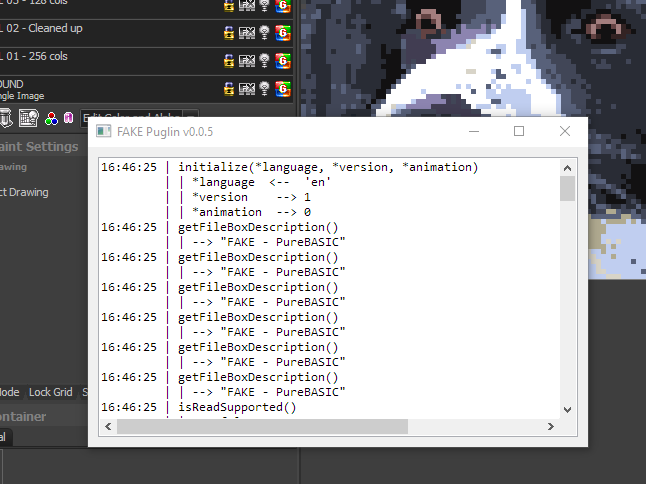
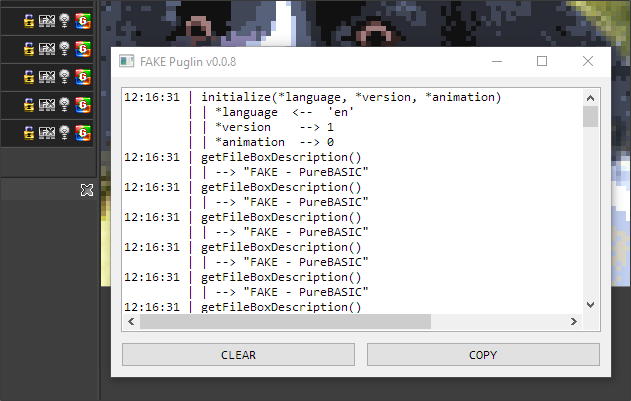
Logger v.0.0.4
* Update `mod_logger.pbi`:
    * New buttons:
        * CLEAR: clears all logged text.
        * COPY: copies log text into the clipboard.
    * Downsizing now constrained to 250x150 px minimum size.
    * Enabled `SmartWindowRefresh()` to prevent flickering on resize.
    * When `CloseLogger()` is called, memorize the window dimensions,
      in case the user resized it, so they will be preserved on the next
      call to `OpenLogger()`.
* Update Logger screenshot.
* Update Logger documentation (`mod_logger.md`).

diff --git a/mod_logger.md b/mod_logger.md
@@ -1,6 +1,6 @@
 # The Logger Module
 
-- [`mod_logger.pbi`][mod_logger] — v.0.0.3
+- [`mod_logger.pbi`][mod_logger] — v.0.0.4
 
 This module provides file I/O plugins with a logger window that can be used to debug internal states and events during plugin development.
 The module exposes a few simple procedures to control the logger and print text to it.
@@ -24,13 +24,19 @@ The module exposes a few simple procedures to control the logger and print text 
 
 # Introduction
 
-During the development stage of file I/O plugin it's useful to have a logger window to show debugging information of the plugin internal states and which procedure are being called.
+During the development stage of a file I/O plugin it's useful to have a logger window to show debugging information of the plugin internal states, which procedure are being called and what information is being exchanged.
+
 Since plugins can only be tested as compiled DLLs executed by PMNG, using PureBasic debug functionality is not an option.
-For this reason I've created this PureBasic module to provide a logger window and some logging procedures.
+For this reason I've created this PureBasic module to provide an _ad hoc_ logger window, along with some friendly logging procedures.
 
 Here's a screenshot of a logger window used by the ["FAKE" plugin][PoC fake]:
 
 ![screenshot log window][screenshot logger]
+
+The logged text can be freely selected with the mouse and copied into the clipboard via <kbd>Ctrl</kbd>+<kbd>C</kbd>.
+The <kbd>&nbsp;COPY&nbsp;</kbd> button allows to quickly copy into the clipboard all of the logged contents; and the <kbd>&nbsp;CLEAR&nbsp;</kbd> button deletes all logged info, allowing users to restart tracking the plugin behaviour before import/export operations.
+
+The possibility to dump into the Logger info on a plugin internal variables and states, and being able to quickly copy and paste as plain text the whole log, or specific selections thereof, all add up to making the Logger module an essential tool for File I/O plugins development.
 
 # Usage Instructions
 

diff --git a/README.md b/README.md
@@ -63,7 +63,7 @@ Providing such documentation is beyond the scope of this project.
 
 ## The Logger Module
 
-- [`mod_logger.pbi`][mod_logger] — v.0.0.3
+- [`mod_logger.pbi`][mod_logger] — v.0.0.4
 - [`mod_logger.md`][mod_logger Doc] — module documentation.
 
 This module provides file I/O plugins with a logger window that can be used to debug internal states and events during plugin development.
